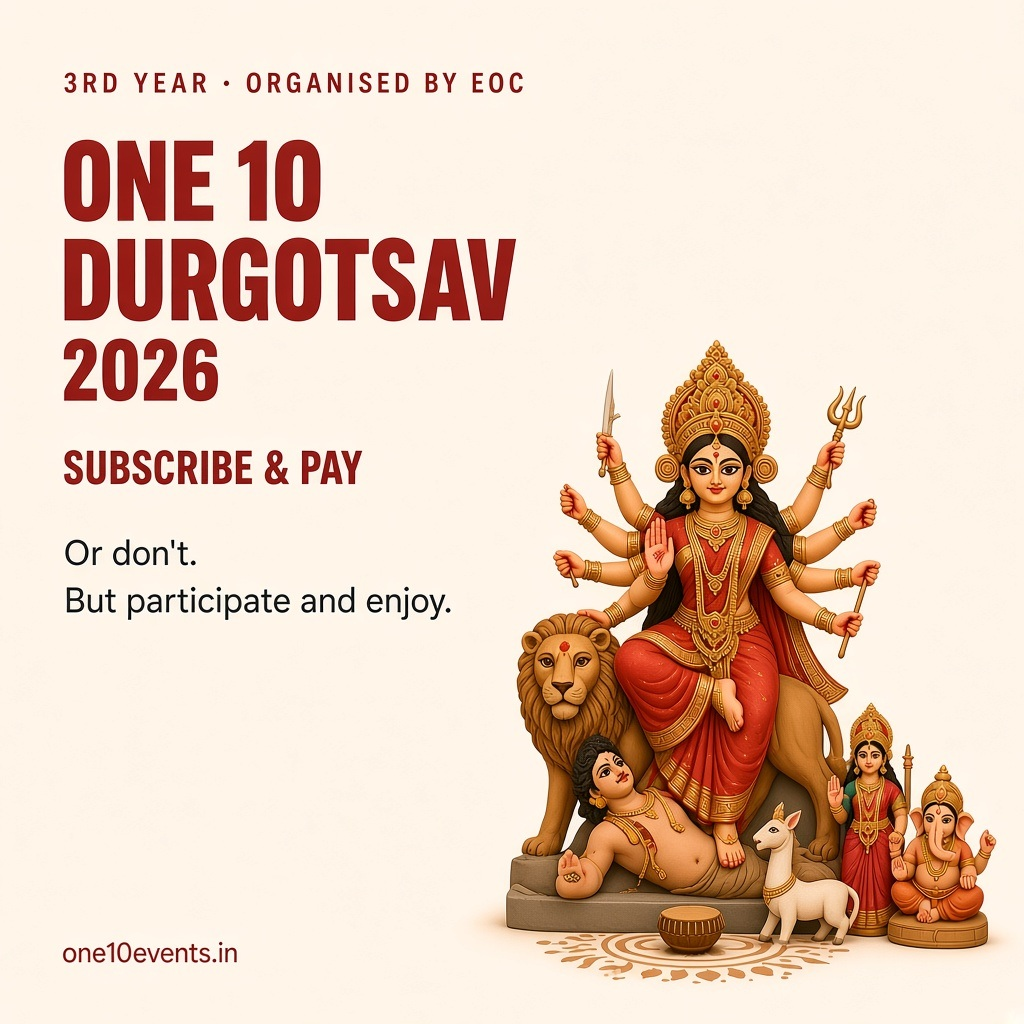
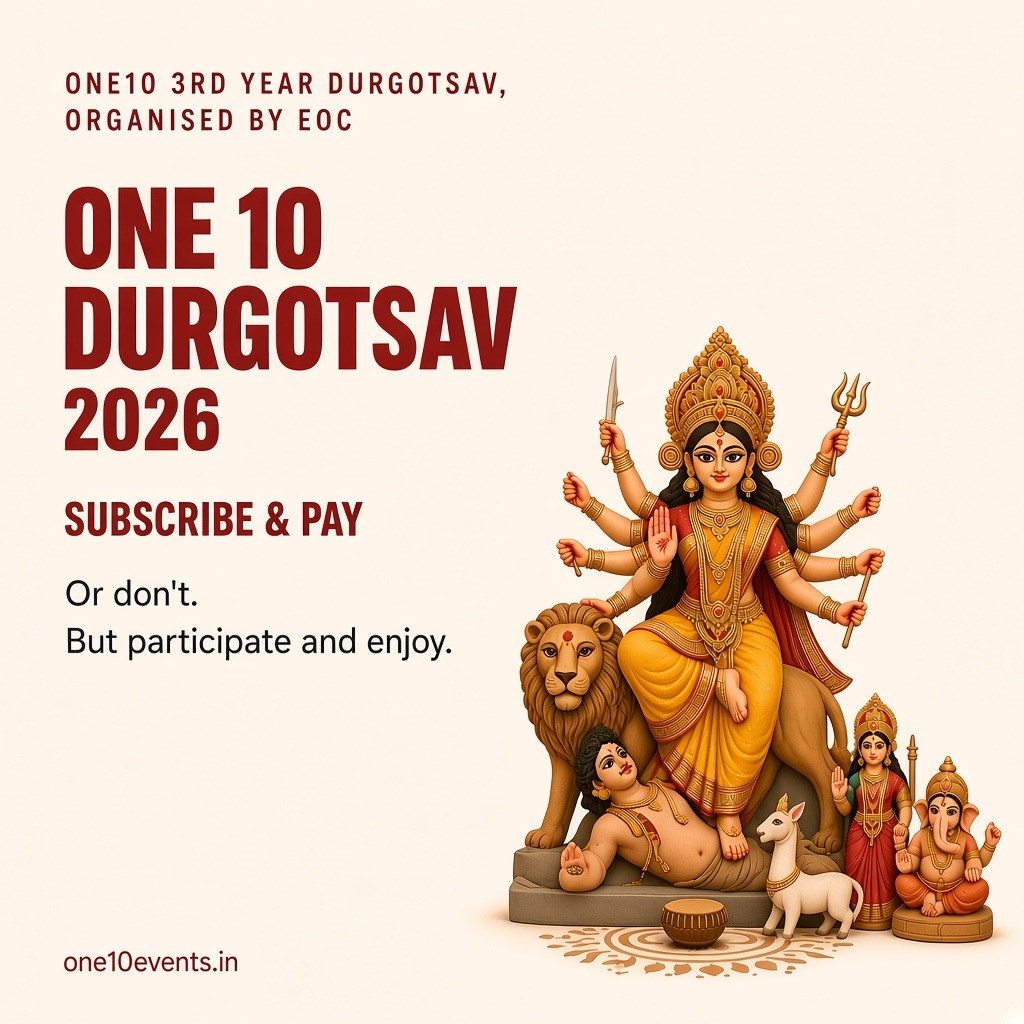
Brand invite as One10 3rd Year Durgotsav by EOC
Update /invite headline and WhatsApp poster to the exact
One10 3rd Year Durgotsav, organised by EOC wording.

Changed region(s): [[0.4688, 0.3125, 1.0, 0.9688], [0.0625, 0.0625, 0.5312, 0.6562], [0.0625, 0.9062, 0.25, 0.9688]]

diff --git a/frontend/src/pages/public/Invite.jsx b/frontend/src/pages/public/Invite.jsx
@@ -18,16 +18,19 @@ export default function Invite() {
         />
 
         <div className="relative z-10 max-w-md">
-          <p className="text-[11px] font-semibold uppercase tracking-[0.28em] text-[#7A1F2B]/70">
-            3rd year · Organised by EOC
-          </p>
-          <h1 className="mt-4 font-sans text-5xl font-black uppercase leading-[0.95] tracking-tight sm:text-6xl md:text-7xl">
-            One 10
+          <h1 className="font-sans text-5xl font-black uppercase leading-[0.95] tracking-tight sm:text-6xl md:text-7xl">
+            One10
+            <br />
+            3rd Year
             <br />
             Durgotsav
-            <br />
-            2026
           </h1>
+          <p className="mt-4 text-base font-semibold tracking-wide text-[#7A1F2B]/80 sm:text-lg">
+            organised by EOC
+          </p>
+          <p className="mt-2 text-sm font-semibold uppercase tracking-[0.22em] text-[#7A1F2B]/55">
+            2026
+          </p>
 
           <Link
             to="/subscribe"
